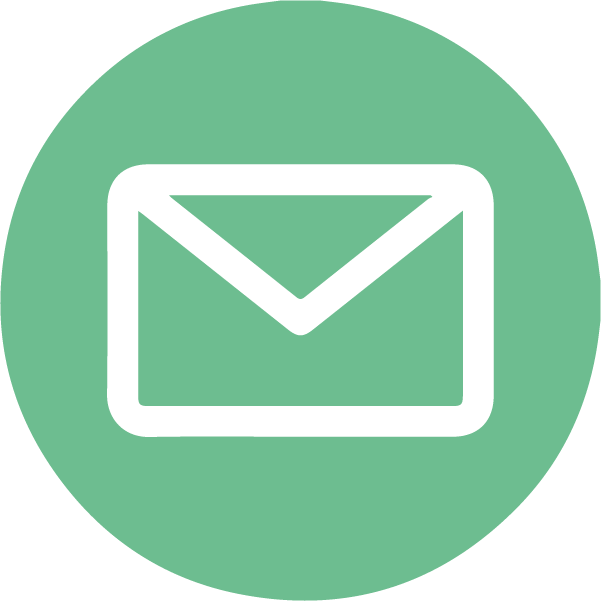
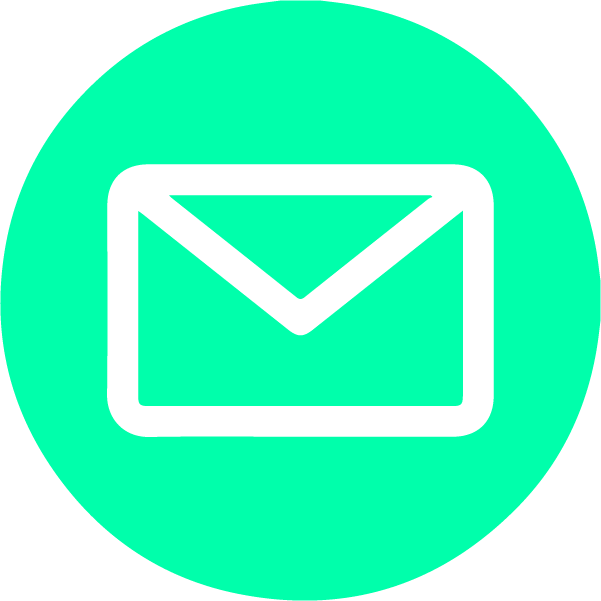
made the ReadMe file and added comments

diff --git a/style.css b/style.css
@@ -1,4 +1,4 @@
-:root {
+:root { /* below here defines global setting across the page like font and link styles */
     --myGreen: rgb(0, 255, 171);
     --myBlack: #282828;
   }
@@ -24,7 +24,7 @@ body {
     margin: 0;
 }
     
-nav {
+nav { /* below here defines the top naviagtion bar settings */
     display: flex;
     justify-content: space-between;
     z-index:100;
@@ -61,7 +61,7 @@ nav ul li {
     margin-right:20px;
 }
 
-.sectionTitle h2 {
+.sectionTitle h2 { /* below here defines the settings for the main title and text for each section */
     font-family:'DM Serif Display', Times, serif;
     font-size: 60px;
     margin: 0px;   
@@ -78,7 +78,7 @@ nav ul li {
     font-size: 18px;
 }
 
-#hero {
+#hero { /* this defines the main 'hero' image and box you see at the top of the page */
     display:flex;
     background-image: url(../W2_Portfolio_Challenge/assets/shapelined-_JBKdviweXI-unsplash.jpg);
     background-attachment: fixed;
@@ -92,7 +92,7 @@ nav ul li {
     margin-left: 80px;
 }
 
-#profilePicture {
+#profilePicture { /* these are the settings for the circular profile picture */
     z-index: 50;
     height: 300px;
     width: 300px;
@@ -107,12 +107,12 @@ nav ul li {
     font-family:'Times New Roman', Times, serif;
 }
 
-#container {
+#container { /* this container lifts the rest of the page to account for the profile picture being 155px relative higher */
     position: relative;
     top:-155px;
 }
 
-#about {
+#about { /* here na dbelow are the settings for the about and work titles */
     display:flex;
     margin-left:80px;
     width:70%;
@@ -125,7 +125,7 @@ nav ul li {
     color: white;
 }
 
-.grid_container {
+.grid_container { /* these are the settings for the portfolio grid and below are the project headings and text */
     display: grid;
     padding-top: 30px;
     padding-bottom: 150px;
@@ -198,7 +198,7 @@ nav ul li {
     filter:saturate(0);
 }
 
-#contact {
+#contact { /* settings for the contact area and links */
     display:flex;
     flex-direction: row;
     margin: 80px 0px 0px 80px;
@@ -237,7 +237,19 @@ nav ul li {
     margin-left:80px;
 }
 
-@media screen and (max-width: 1100px) {
+#footer { /* these are the settings for the footer */
+    padding-top: 20px;
+    padding-bottom: 20px;
+    text-align:center;
+    bottom: 0;
+    width:100%;
+    margin:auto;
+    font-size: 12px;
+    color:white;
+    background-color:var(--myBlack);
+}
+
+@media screen and (max-width: 1100px) { /* these are the settings for when the viewport goes to a medium size */
 
     #title {
         margin-left: 30px;
@@ -297,7 +309,7 @@ nav ul li {
     }
 }
 
-@media screen and (max-width: 600px) {
+@media screen and (max-width: 600px) { /* these are the settings for when the viewport is a much smaller size */
 
     nav {
         flex-direction: column;

diff --git a/index.html b/index.html
@@ -16,7 +16,7 @@
         <li><a href="#aboutLink">ABOUT</a></li>
         <li><a href="#workLink">WORK</a></li>
         <li><a href="#contactLink">CONTACT</a></li>
-        <li><a href="#resumeLink">RESUM&Eacute</a></li>
+        <li><a href="../W2_Portfolio_Challenge/assets/David Robertson CV 2022.pdf" target="_blank">RESUM&Eacute</a></li>
     </ul>
 </nav>
 <body>
@@ -31,7 +31,9 @@
 <div id="container">
     <div id="about">
             <div class="sectionTitle"><h2>About.</h2></div>
-            <div class="sectionText">Lorem ipsum dolor sit amet, consectetur adipiscing elit, sed do eiusmod tempor incididunt ut labore et dolore magna aliqua. Ut enim ad minim veniam, quis nostrud exercitation ullamco laboris nisi ut aliquip ex ea commodo consequat. Duis aute irure dolor in reprehenderit in voluptate velit esse cillum dolore eu fugiat nulla pariatur. Excepteur sint occaecat cupidatat non proident, sunt in culpa qui officia deserunt mollit anim id est laborum.</div>
+            <div class="sectionText">My experience as a graphic designer has made me well-versed in both the creative and technical sides of my profession. My enquiring nature lends itself to a natural ability for problem solving which underpins my hobbies, as well as my working day.
+            <br><br>
+            I am seeking to expand my skills within the front-end web development sector while also increasing my knowledge and expertise in a field that I am highly motivated to be a part of.</div>
        </div>
     <a id="workLink"></a>
       <div id="work">
@@ -69,4 +71,7 @@
         </div>
 </div>
 </body>
+<footer id="footer">
+    <p>© 2022 My New Website</p>
+</footer>
 </html>

diff --git a/README.md b/README.md
@@ -1,1 +1,32 @@
 # DavidRobertson_Portfolio
+
+## Description
+The aim of this project was to build a portfolio page which I can add to as the course progresses.
+
+The webpage needed to show my name, a recent photo or avatar and link sections about me, my work and how to contact me.
+
+The webpage needed to responsive when changing various screen sizes.
+
+## Installation
+
+N/A
+
+## Usage
+
+The website can be accessed via an internet browser and you can navigate to different sections by clicking the links on the right of the navigation bar at the top of the page.
+
+Link: https://drrobertson9673.github.io/W2_Portfolio_Challenge/
+
+![screenshot of the website large screen](assets/MyPortfolio_Large.png)
+
+![screenshot of the website medium screen](assets/MyPortfolio_Medium.png)
+
+![screenshot of the website smell screen](assets/MyPortfolio_Small.png)
+
+## Credits
+
+N/A
+
+## License
+
+MIT licence
